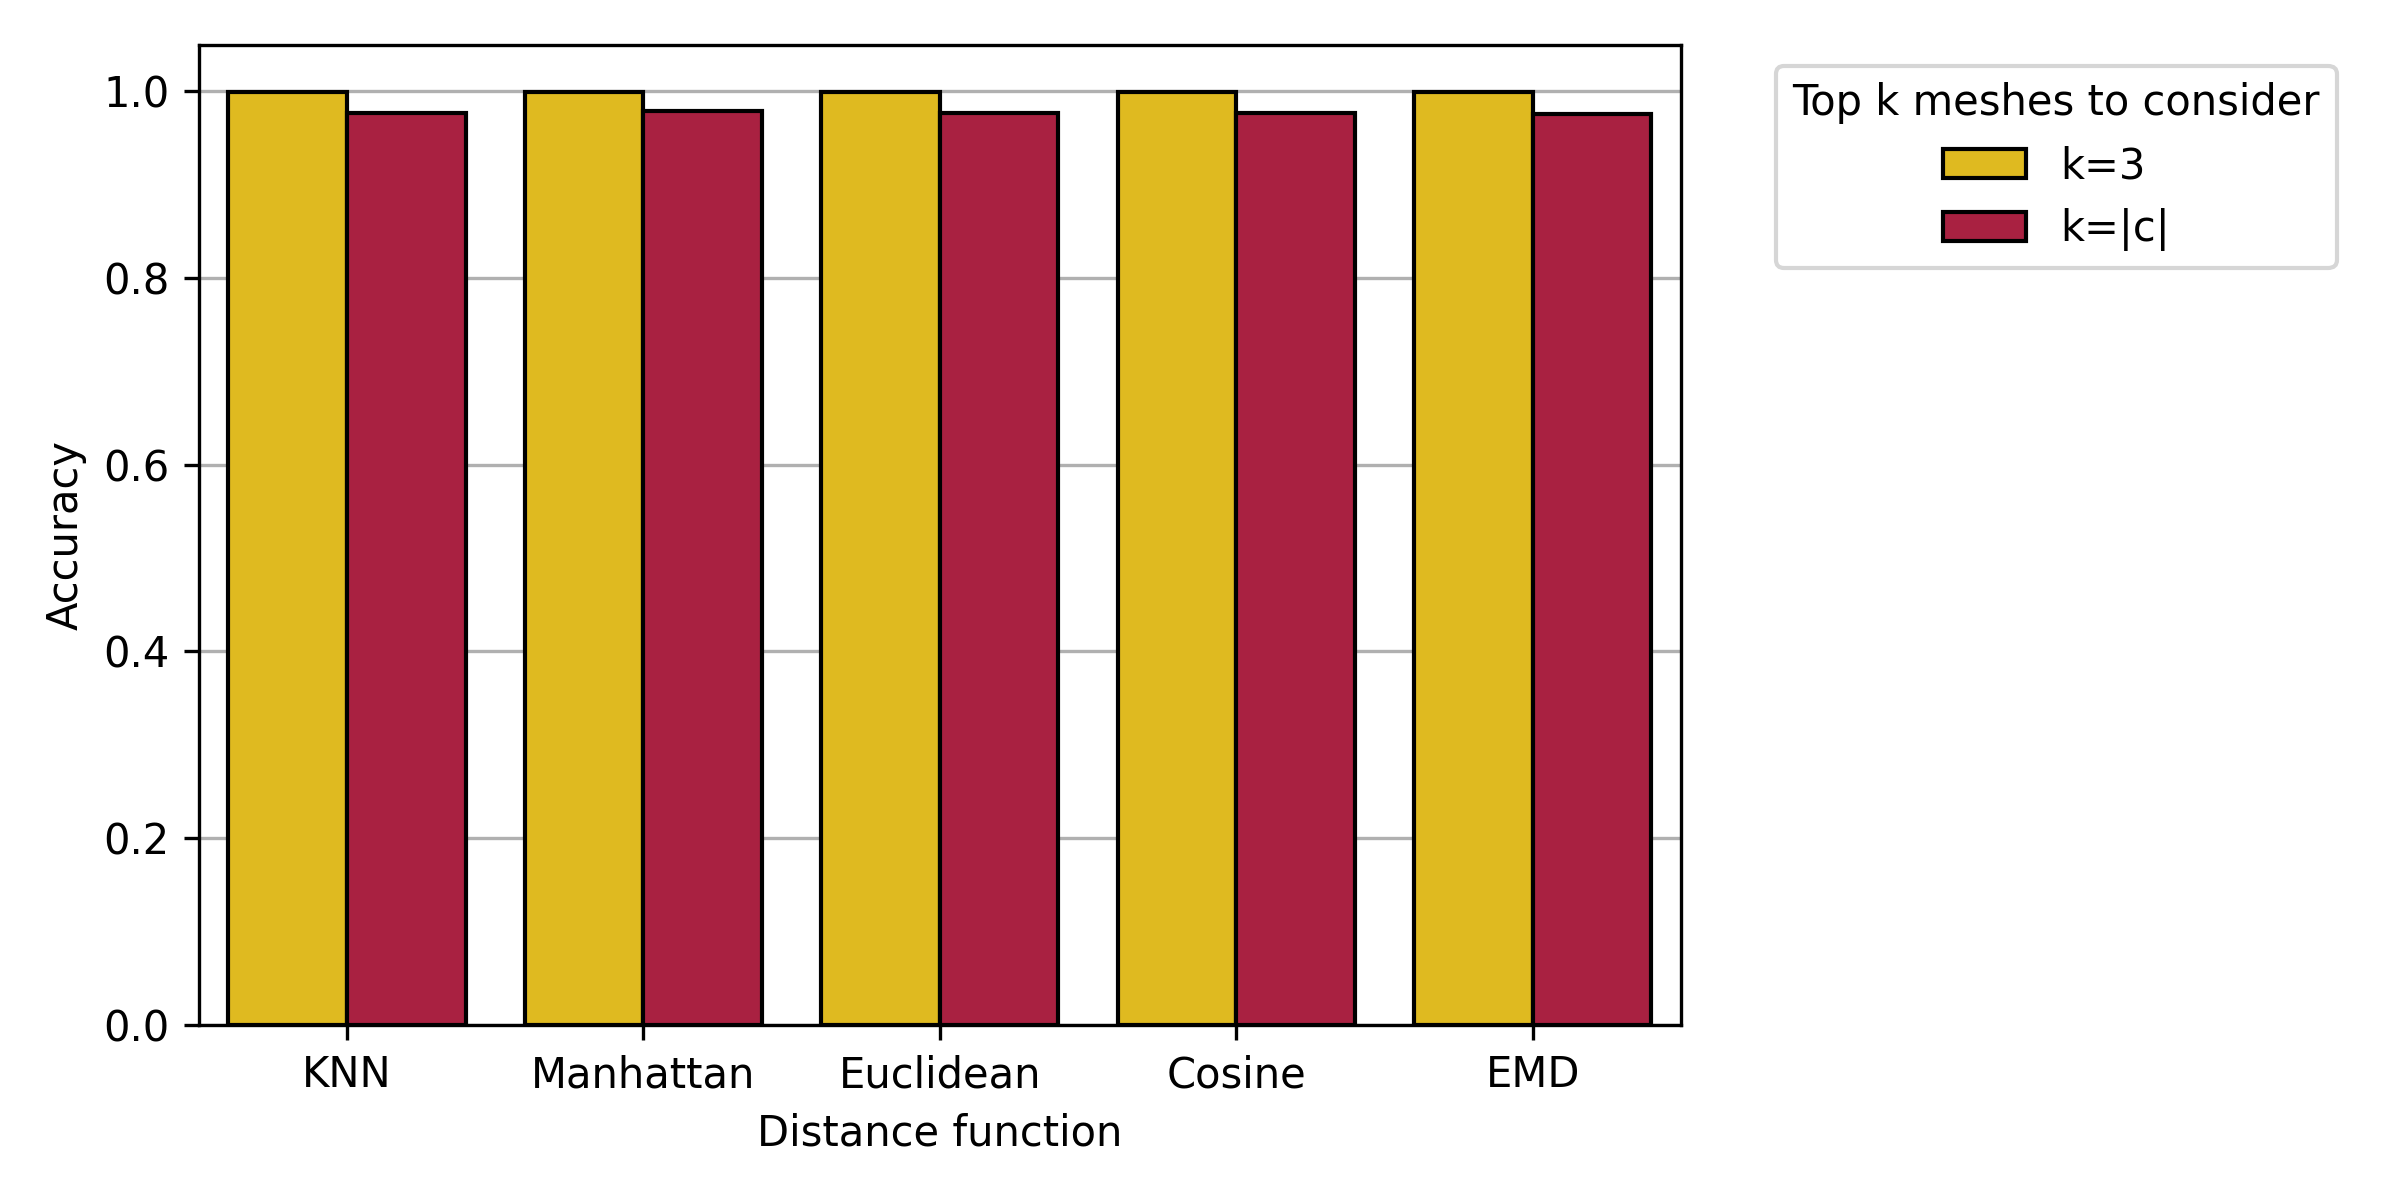
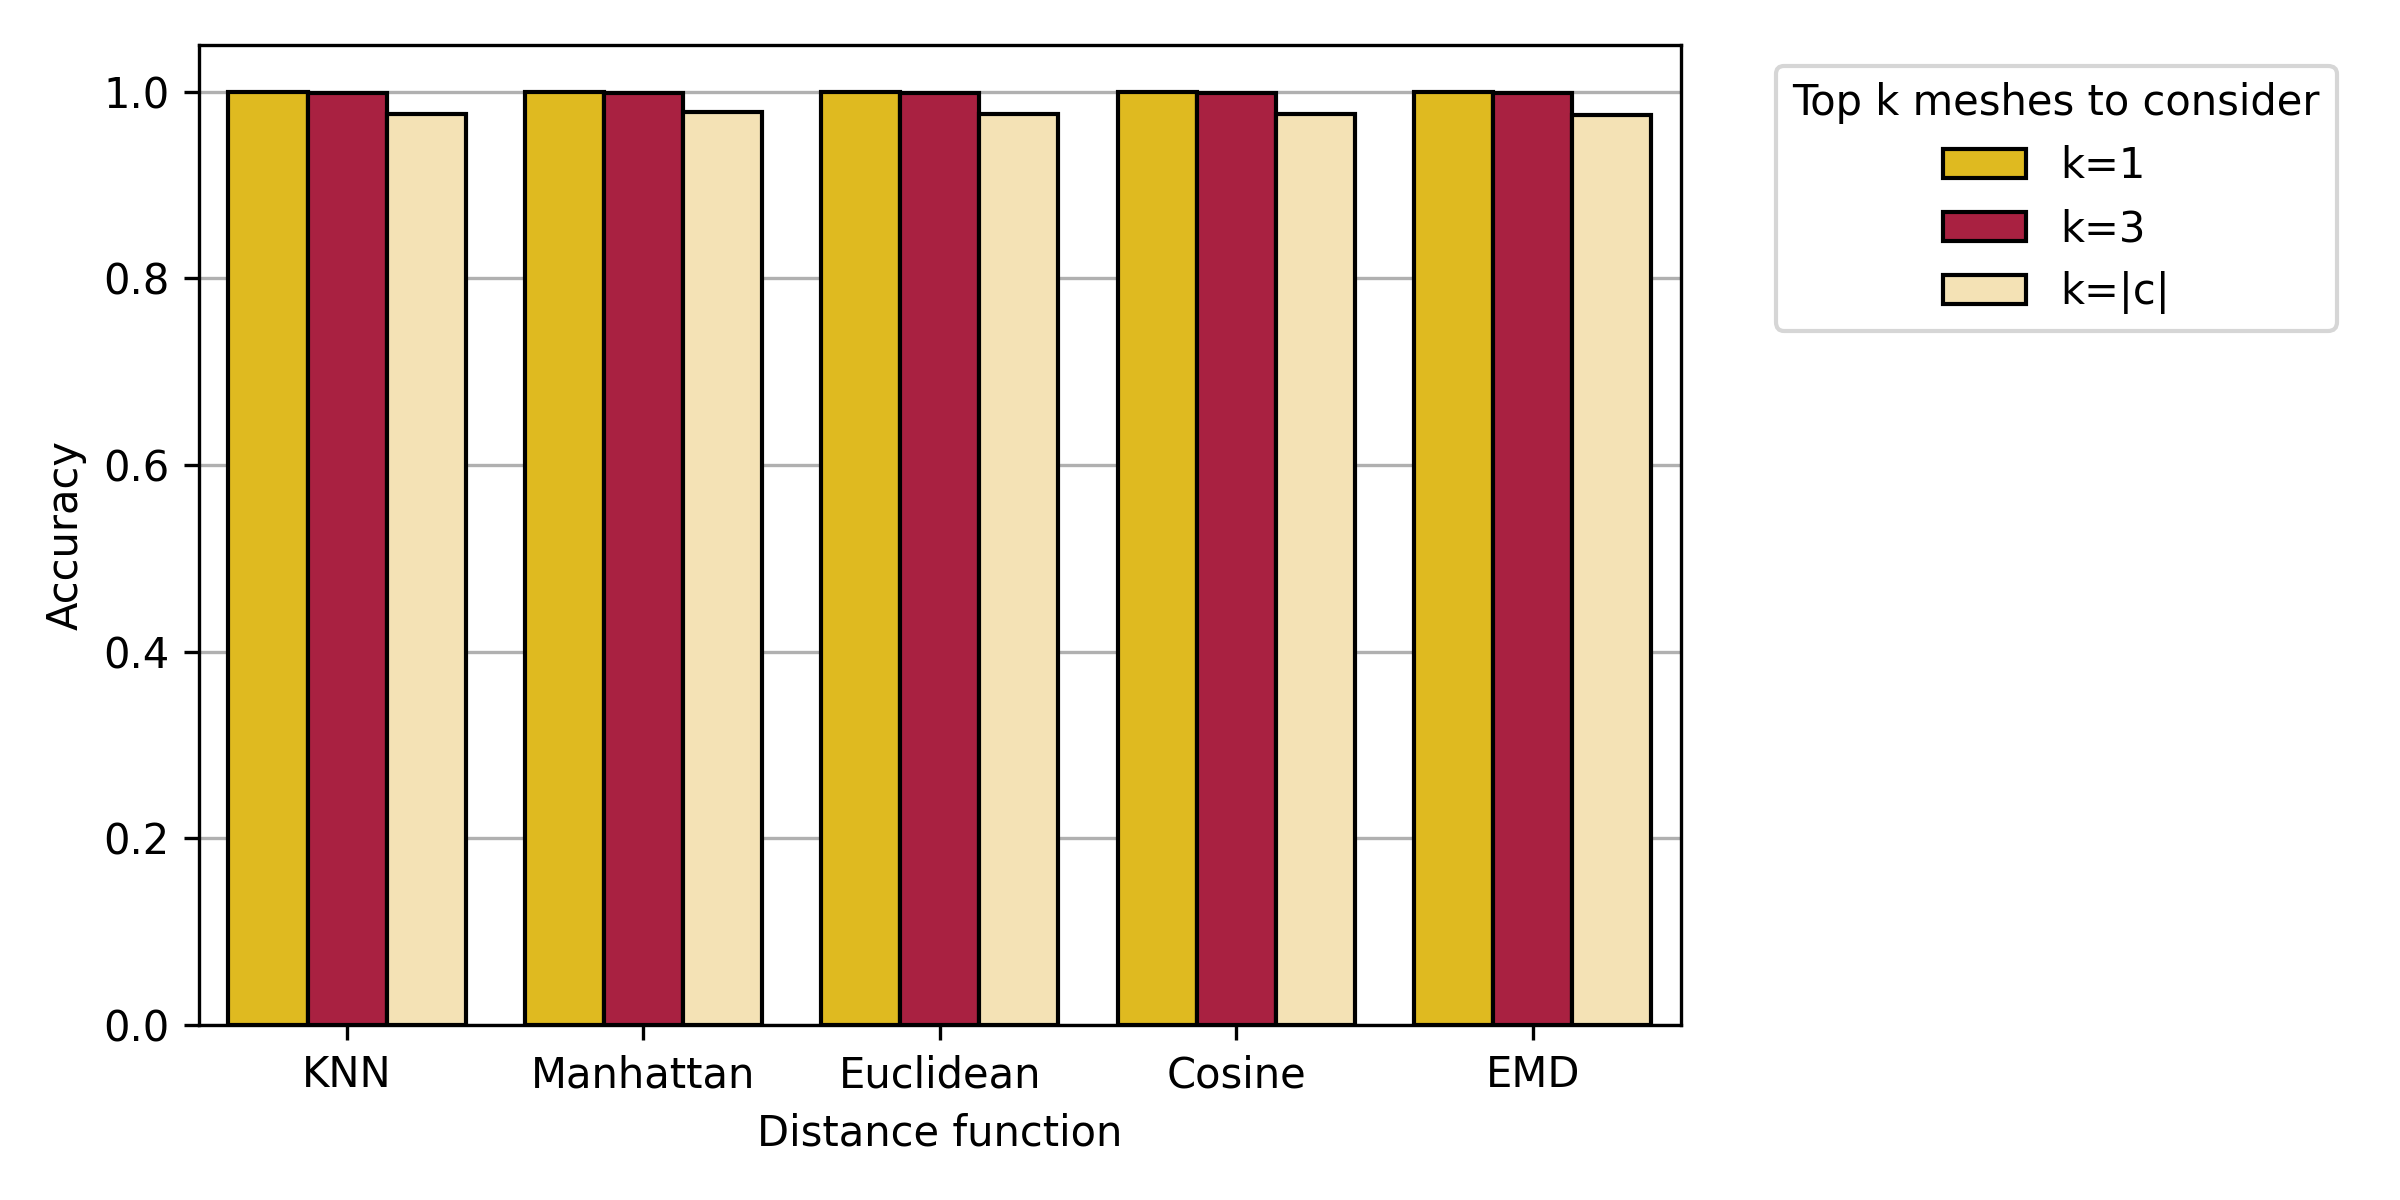
Added k=1 results

diff --git a/Rorschach/evaluation/evaluate_max.py b/Rorschach/evaluation/evaluate_max.py
@@ -136,7 +136,7 @@ if __name__ == "__main__":
     results_columns = ["Precision", "Recall", "Accuracy", "Sensitivity", "Specificity", "F1 score", "F2 score"]
     plot_type = "F2 score"
     column = "Apartment"
-    ks = [3, None]  # Top k results to consider
+    ks = [1, 3, None]  # Top k results to consider
 
     results = []
     for fp, distance_function in tzip(query_results_paths, distance_functions):

diff --git a/Rorschach/evaluation/plot_results.py b/Rorschach/evaluation/plot_results.py
@@ -37,7 +37,7 @@ def plot_overall_metric(df, metric):
 
     # Change legend
     handles, _ = ax.get_legend_handles_labels()
-    ax.legend(handles, ["k=3", "k=|c|"], title="Top k meshes to consider", bbox_to_anchor=(1.05, 1))
+    ax.legend(handles, ["k=1", "k=3", "k=|c|"], title="Top k meshes to consider", bbox_to_anchor=(1.05, 1))
 
     ax.set_axisbelow(True)  # Put grid behind bars
     ax.grid(axis="y")

diff --git a/Rorschach/visualization/dim_reduction.py b/Rorschach/visualization/dim_reduction.py
@@ -79,7 +79,7 @@ def main(fp_features: str, fp_save: str, tsn_no_components: int = 2, tsne_perple
 
 
 if __name__ == "__main__":
-    fp_features = "./Rorschach/feature_extraction/features.csv"
+    fp_features = "./Rorschach/feature_extraction/features_normalized.csv"
     fp_out = "./figures/step5/2D_meshes.png"
 
     # Parameters
